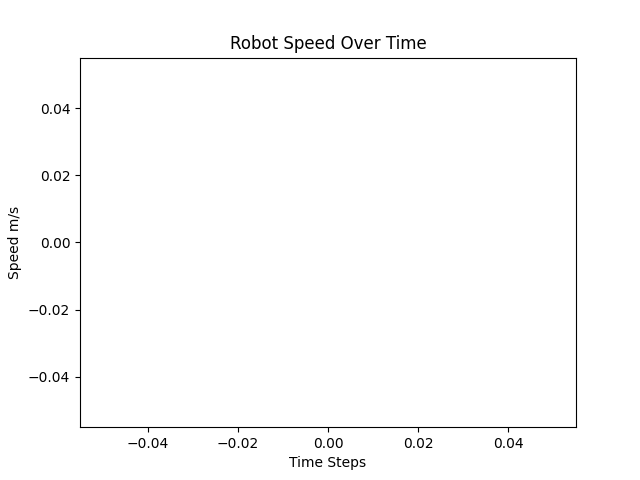
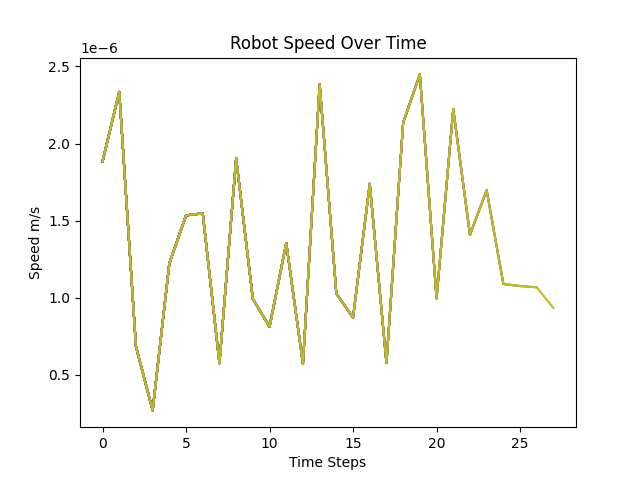
working short run, with graphs, slow

diff --git a/scripts/gyms/Basic_Run.py b/scripts/gyms/Basic_Run.py
@@ -19,7 +19,6 @@ Learn how to run forward using step primitive
 - class Basic_Run: implements an OpenAI custom gym
 - class Train:  implements algorithms to train a new model or test an existing model
 '''
-speeds = []
 
 class Basic_Run(gym.Env):
     def __init__(self, ip, server_p, monitor_p, r_type, enable_draw) -> None:
@@ -51,6 +50,8 @@ class Basic_Run(gym.Env):
         self.player.scom.unofficial_move_ball((14, 0, 0.042))
 
         self.speeds = []
+        self.speed_sum = 0
+        self.avg_speed = 0
         
 
     def observe(self, init=False):
@@ -116,6 +117,8 @@ class Basic_Run(gym.Env):
 
         self.step_counter = 0
         r = self.player.world.robot
+        self.speeds = []
+        self.speed_sum = 0
         
         for _ in range(25): 
             self.player.scom.unofficial_beam((-14,0,0.50),0) # beam player continuously (floating above ground)
@@ -200,19 +203,17 @@ class Basic_Run(gym.Env):
         #########################LESELI'S REWARDS##################
 
         #_________________________forward speed reward_______________________
+        
         dist = np.sqrt((-14 - r.cheat_abs_pos[0])**2)
 
         speed = dist/dur
 
-        global speeds
-        self.speeds.append(speed)
-
+        self.speed_sum += speed
         reward += 0.002 * speed
 
         #_________________________tourque reward_______________________
 
         joint_speeds = np.abs(r.joints_speed[2:22])
-
         reward -= 0.0004 * np.sum(joint_speeds)
 
         #___________________________tilt reward________________________
@@ -230,12 +231,16 @@ class Basic_Run(gym.Env):
         right_foot_contact = np.any(r.frp.get('rf', (0, 0, 0, 0, 0, 0)))
 
         if left_foot_contact or right_foot_contact:
-            reward += 0.001
+            reward += 0.002
 
         #______________________cummulative distance_____________________
 
-        if self.step_counter > 300 or r.cheat_abs_pos[2 < 0.3]:
-            reward += 0.001 * dist
+        if self.step_counter > 300 or r.cheat_abs_pos[2] < 0.3:
+            reward += 0.003 * dist
+
+            self.avg_speed = self.speed_sum/self.step_counter
+            self.speeds.append(self.avg_speed)
+            self.plot_speed()
 
         ###########################################################
 
@@ -245,23 +250,15 @@ class Basic_Run(gym.Env):
         terminal = r.cheat_abs_pos[2] < 0.3 or self.step_counter > 300
 
         return self.observe(), reward, terminal, {}
-
-    def get_speeds(self):
-        return self.speeds
     
-    def plot_speed():
+    def plot_speed(self):
 
-
-        #speeds = get_speeds()
-
-        plt.plot(speeds)
+        plt.plot(self.speeds)
         plt.autoscale()
         plt.xlabel("Time Steps")
         plt.ylabel("Speed m/s")
         plt.title ("Robot Speed Over Time")
         plt.savefig("speed.png")
-
-        #plt.show()
 
 
 
@@ -309,7 +306,7 @@ class Train(Train_Base):
             servers.kill()
             return
         
-        Basic_Run.plot_speed()
+        #Basic_Run.plot_speed()
 
         env.close()
         eval_env.close()
